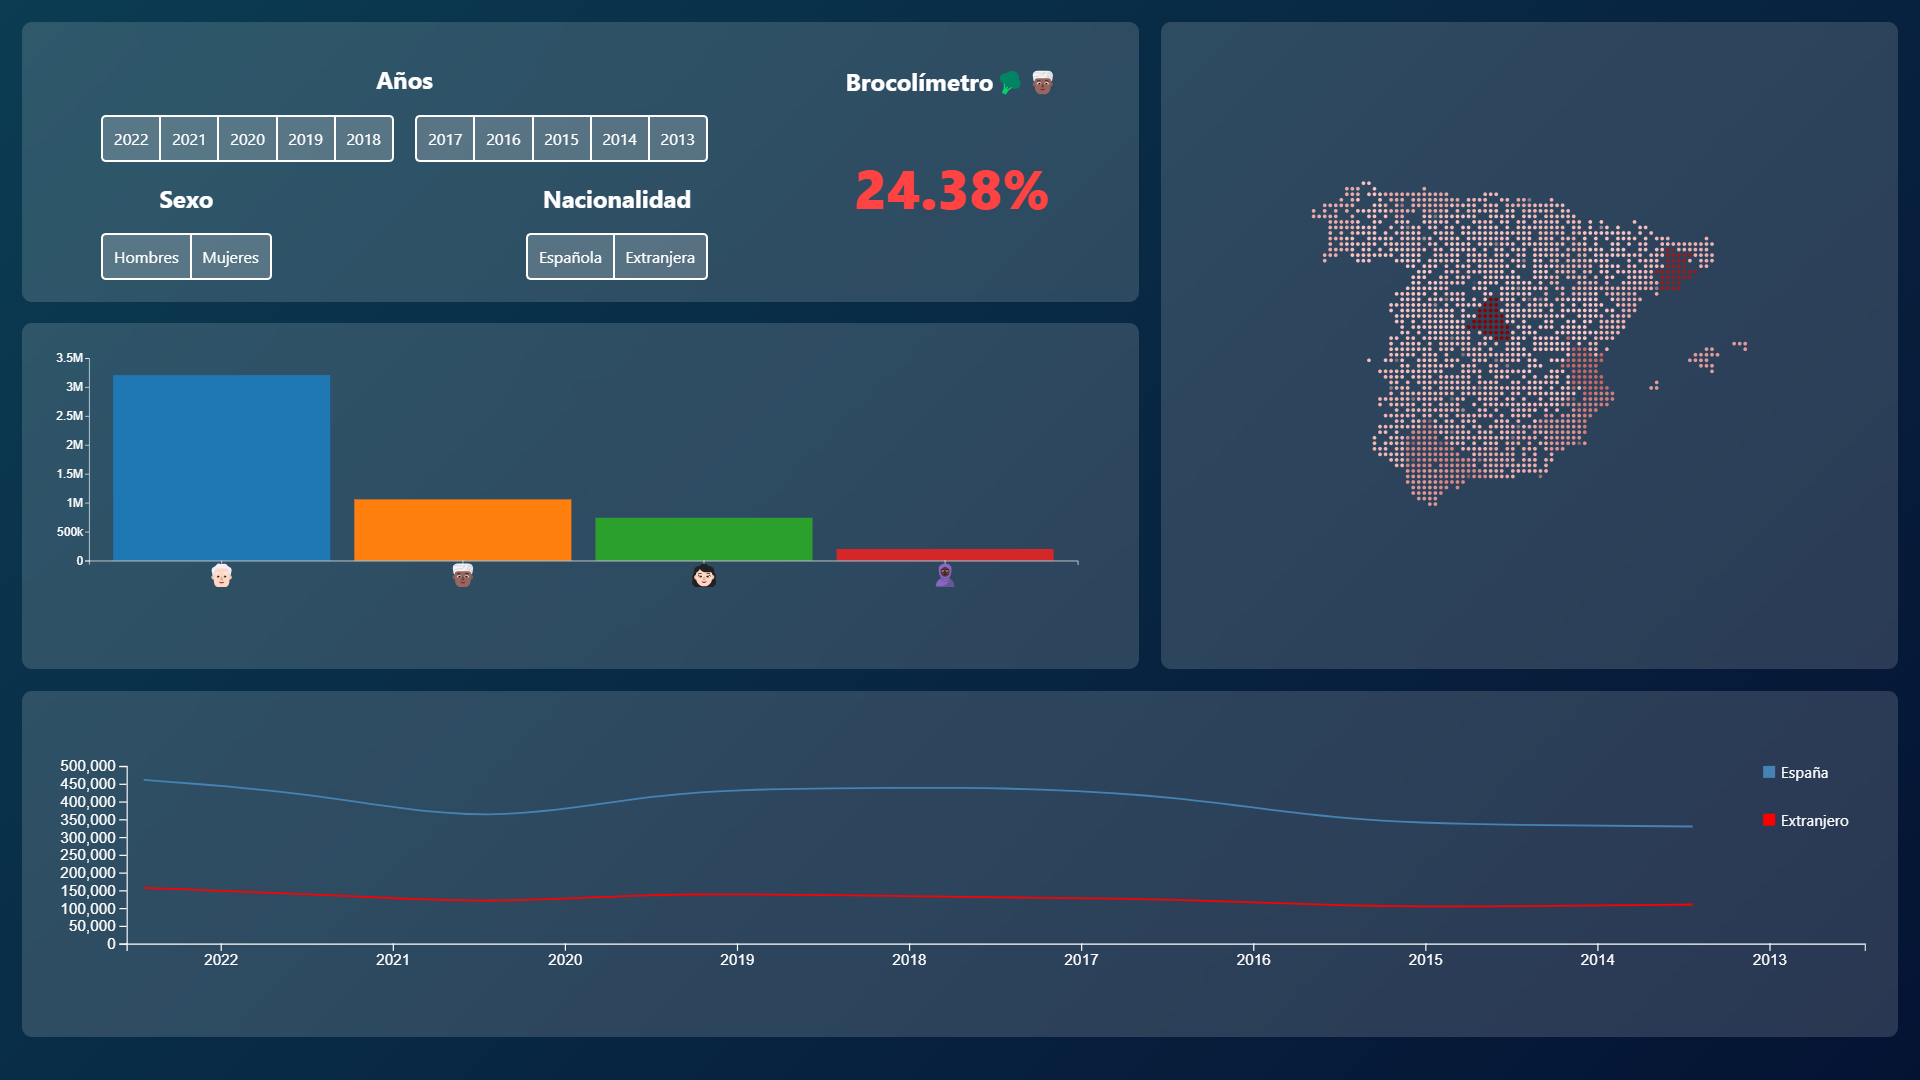
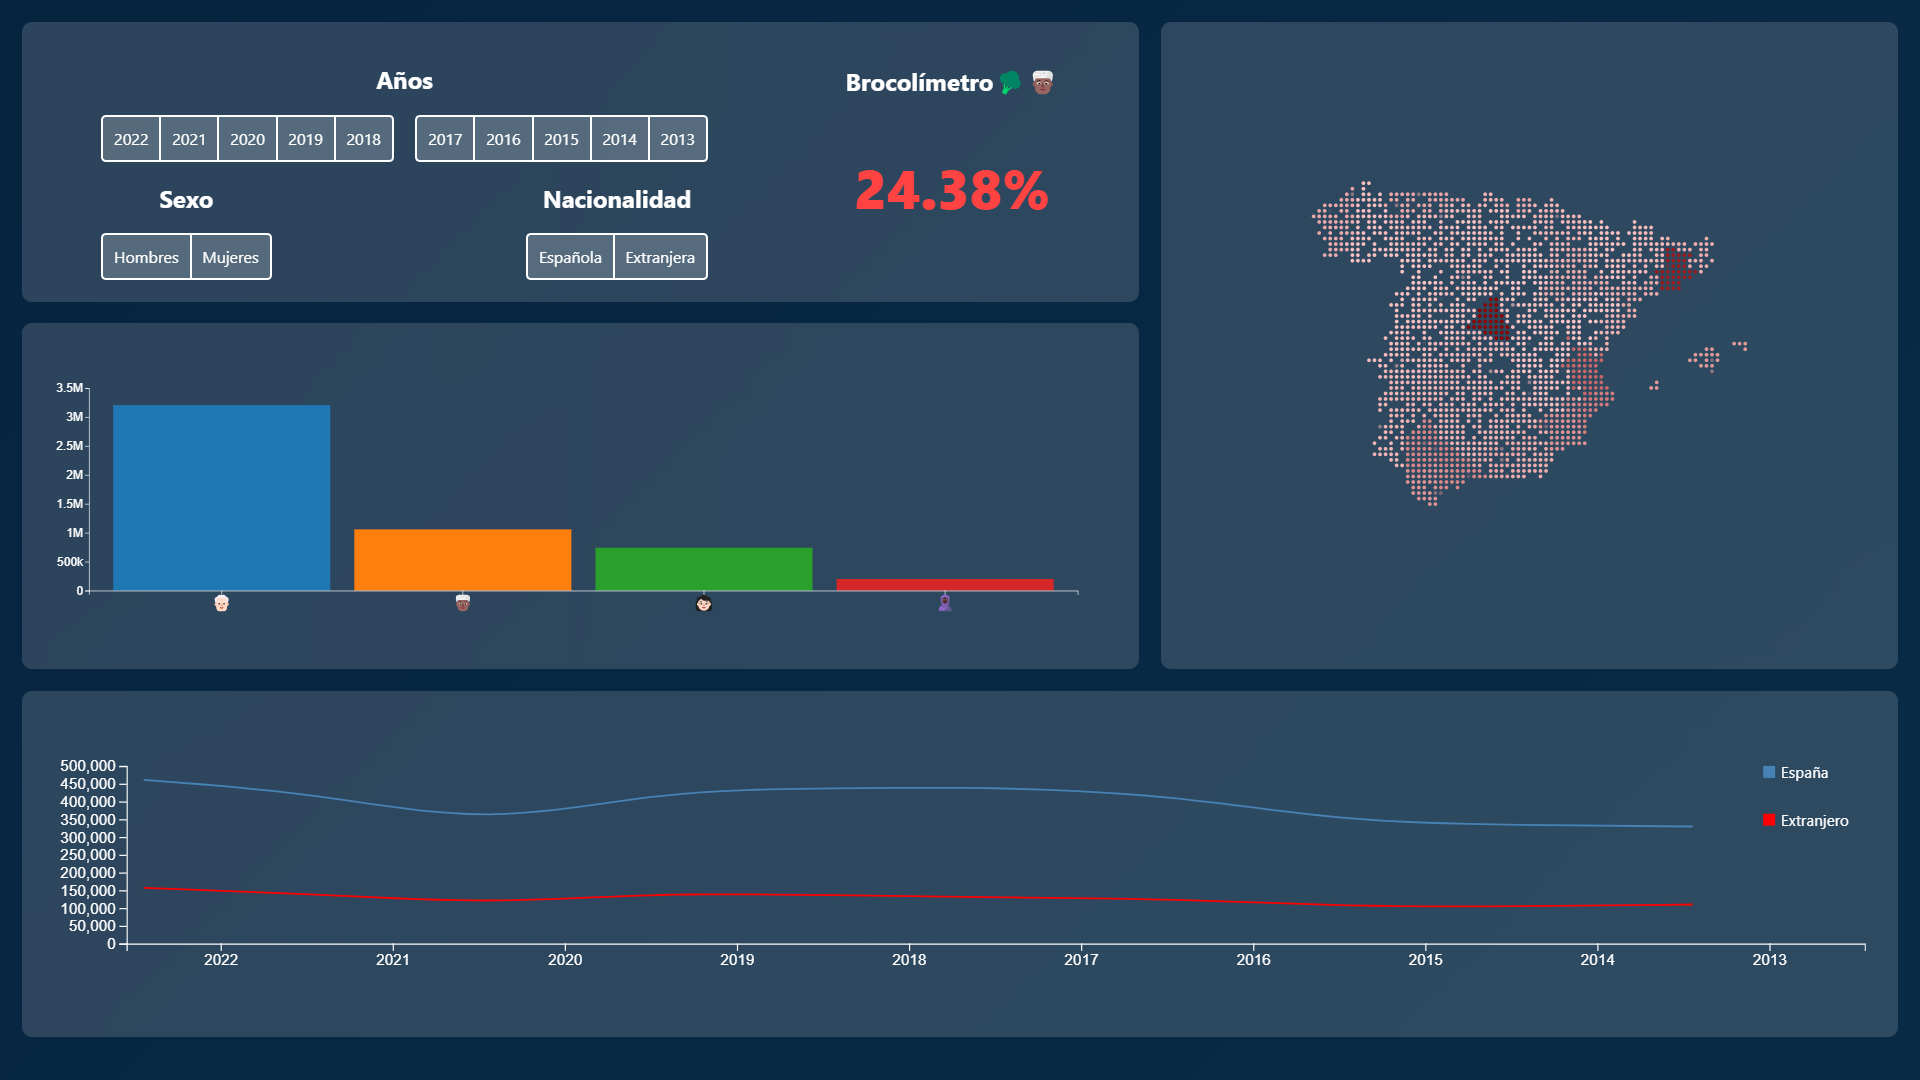
Fixing barchart size and uploading a new image.

Changed region(s): [[0.0312, 0.4583, 0.5625, 0.5806], [0.6875, 0.1833, 0.875, 0.4278], [0.0312, 0.3361, 0.1875, 0.3972]]

diff --git a/javascript/script.js b/javascript/script.js
@@ -188,7 +188,7 @@ function createBarChart(data) {
     });
 
     const chartWidth = window.innerWidth * 0.85; // Ajustar la anchura en función de la pantalla
-    const chartHeight = window.innerHeight * 0.35; // Ajustar la altura en función de la pantalla
+    const chartHeight = window.innerHeight * 0.4; // Ajustar la altura en función de la pantalla
     const margin = { top: 20, right: 30, bottom: 40, left: 70 };
 
     const x = d3.scaleBand()
